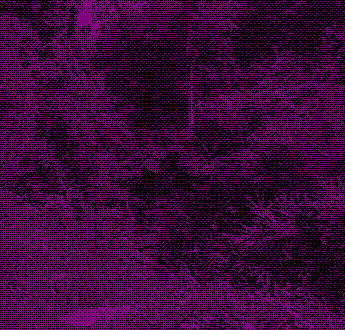
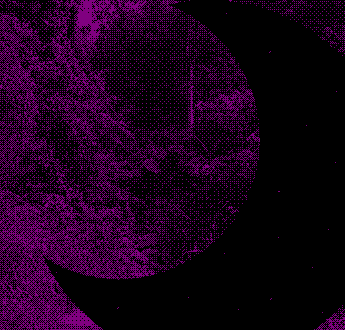
改了点东西
Extra关的背景图改了
点砖块也作了些微调

Changed region(s): [[0.1159, 0.0, 1.0, 1.0], [0.7246, 0.0909, 0.7536, 0.1212]]

diff --git a/SCRIPT/LOGIC/PROCESS/KEY.py b/SCRIPT/LOGIC/PROCESS/KEY.py
@@ -12,7 +12,7 @@ def save_file() -> None:
     time = dt.datetime.now().strftime('%H-%M-%S')
 
     folder = f'{os.environ["USERPROFILE"]}/Saved Games/DX00'
-    file = f'{os.environ["USERPROFILE"]}/Saved Games/DX00/{VARIABLE.name}-{date}-{time}.json'
+    file = f'{os.environ["USERPROFILE"]}/Saved Games/DX00/{VARIABLE.name}_{date}_{time}.json'
 
     if not os.path.exists(folder):
         os.makedirs(folder)

diff --git a/SCRIPT/LOGIC/SPRITE/BRICK.py b/SCRIPT/LOGIC/SPRITE/BRICK.py
@@ -95,7 +95,7 @@ def line_brick(sprite, source, sprite_group, _) -> None:
 
 
 def point_brick(sprite, _, sprite_group, speed):
-    for _ in range(32):
+    for _ in range(24):
         current_sprite = sprite(
             (2, 15, 0),
             (45, 194, 229),
